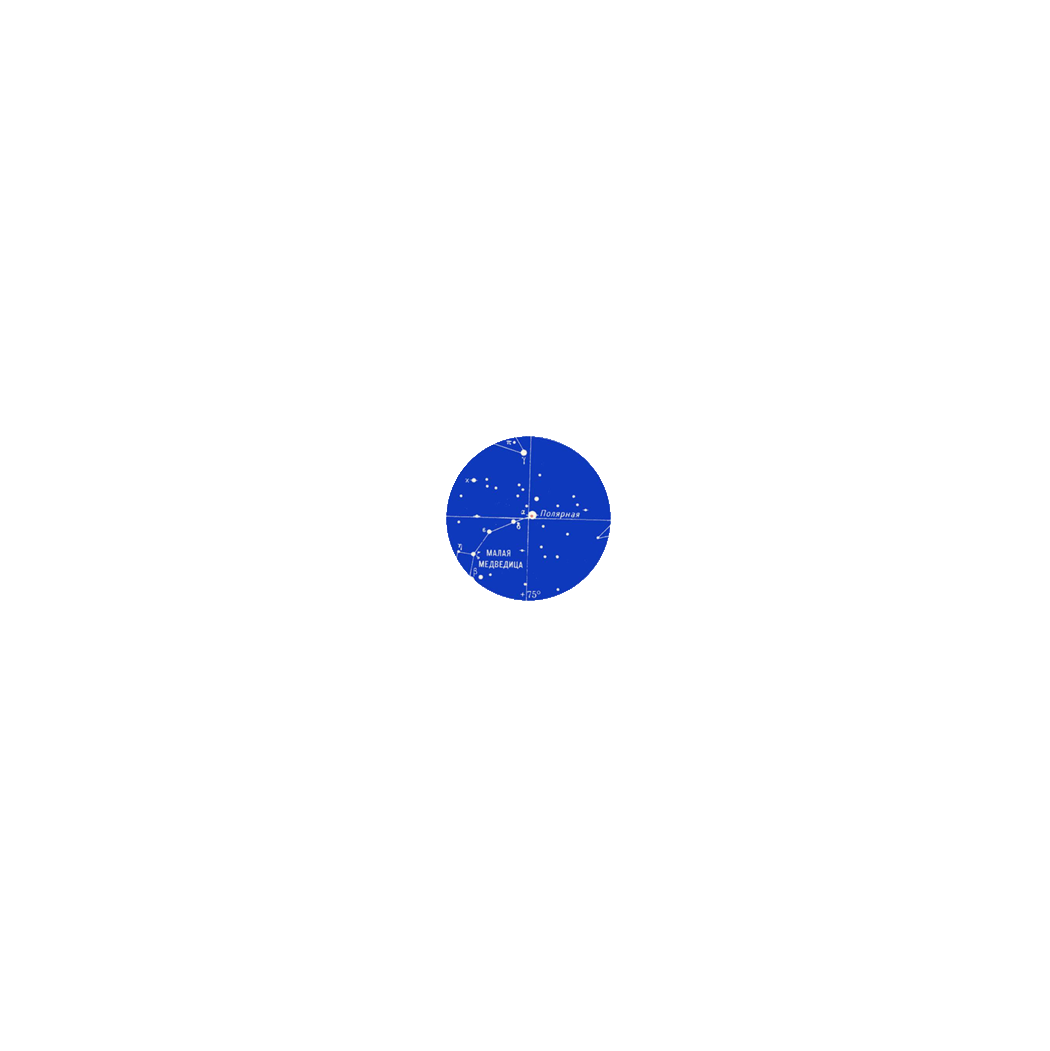
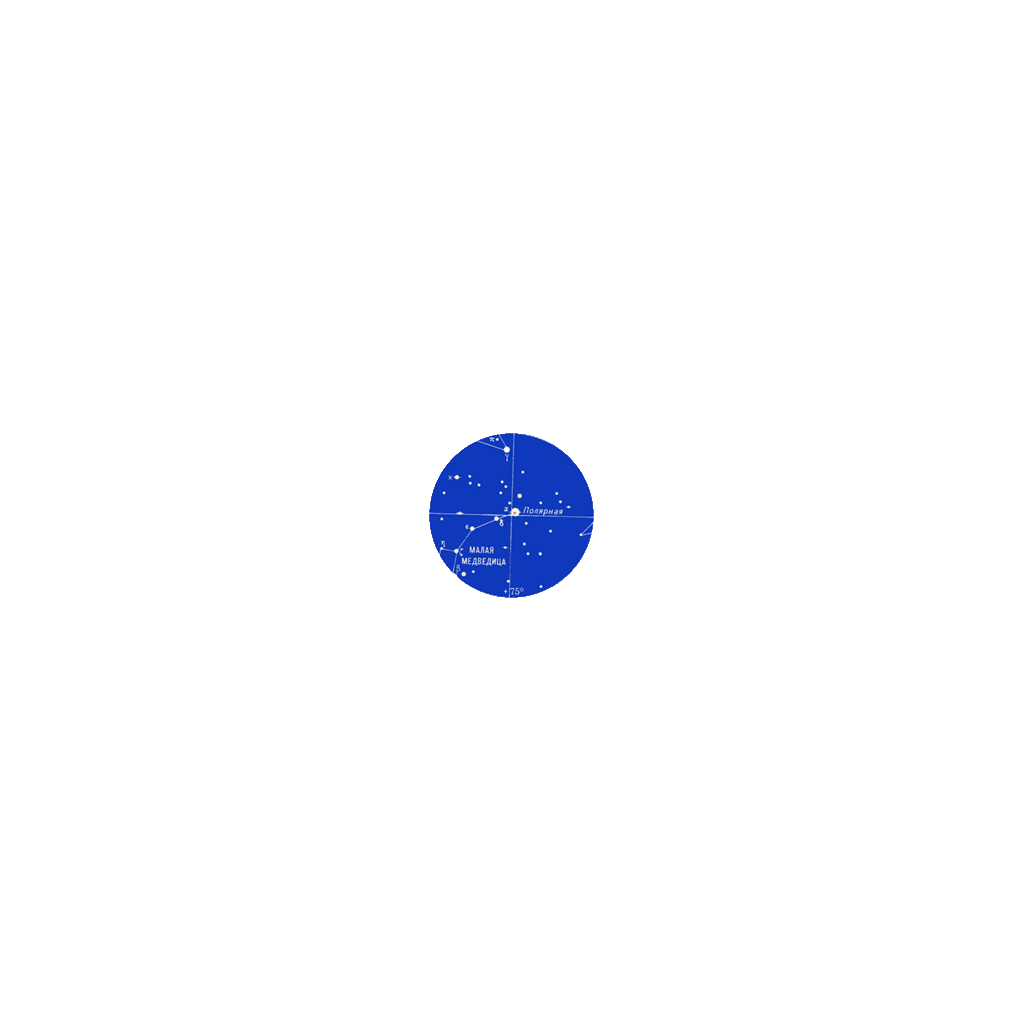
add rotation

Changed region(s): [[0.4059, 0.4023, 0.5932, 0.588]]

diff --git a/index.html b/index.html
@@ -6,13 +6,107 @@
   <meta name="viewport" content="width=device-width, initial-scale=1.0">
   <link rel="stylesheet" type="text/css" href="CSS/style.css">
   <title>for12</title>
+  <script>
+    function OnFirstRingClick()
+    {
+      const ring1 = document.getElementById('ring1');
+      const ring4 = document.getElementById('ring4');
+
+      ring1.style.webkitTransform = "translate(-50%, -50%) rotate("+(getDegreeElementById('ring1') - 30)+"deg)";
+      ring4.style.webkitTransform = "translate(-50%, -50%) rotate("+(getDegreeElementById('ring4') - 30)+"deg)";
+      CheckWin();
+    }
+    function OnSecondRingClick()
+    {
+      const ring2 = document.getElementById('ring2');
+      const ring3 = document.getElementById('ring3');
+
+      ring2.style.webkitTransform = "translate(-50%, -50%) rotate("+(getDegreeElementById('ring2') - 30)+"deg)";
+      ring3.style.webkitTransform = "translate(-50%, -50%) rotate("+(getDegreeElementById('ring3') + 30)+"deg)";
+      CheckWin();
+    }
+    function OnThirdRingClick()
+    {
+      const ring3 = document.getElementById('ring3');
+      const ring4 = document.getElementById('ring4');
+
+      ring3.style.webkitTransform = "translate(-50%, -50%) rotate("+(getDegreeElementById('ring3') - 30)+"deg)";
+      ring4.style.webkitTransform = "translate(-50%, -50%) rotate("+(getDegreeElementById('ring4') + 30)+"deg)";
+      CheckWin();
+    }
+    function OnFourthRingClick()
+    {
+      const ring4 = document.getElementById('ring4');
+      const ring1 = document.getElementById('ring1');
+
+      ring4.style.webkitTransform = "translate(-50%, -50%) rotate("+(getDegreeElementById('ring4') - 30)+"deg)";
+      ring1.style.webkitTransform = "translate(-50%, -50%) rotate("+(getDegreeElementById('ring1') - 30)+"deg)";
+      CheckWin();
+    }
+
+    function CheckWin()
+    {
+      if (getDegreeElementById('ring1') == 0
+        && getDegreeElementById('ring2') == 0
+        && getDegreeElementById('ring3') == 0
+        && getDegreeElementById('ring4') == 0
+        )
+      {
+        setTimeout(() => win(), 1000);
+      }
+      
+    }
+
+    function win()
+    {
+      document.body.innerHTML = '<h1>Наверху можно найти много интересного</h1>';
+    }
+
+    // функция для определения угла наклона элемента 
+    function getDegreeElementById(id_element){
+        var element = document.getElementById(id_element);
+        var style = window.getComputedStyle(element, null);
+        // получаем значение стилей
+        var valueStyle = style.getPropertyValue("-webkit-transform") ||
+            style.getPropertyValue("-moz-transform") ||
+            style.getPropertyValue("-ms-transform") ||
+            style.getPropertyValue("-o-transform") ||
+            style.getPropertyValue("transform");
+        // если стилей нет, то угол 0 градусов
+        if(valueStyle == 'none') return 0;
+        // разбираем полученное значение
+        console.log(valueStyle);
+        var values = valueStyle.split('(')[1];
+        values = values.split(')')[0];
+        values = values.split(',');
+        // получаем синус и косинус
+        var cos = values[0];
+        var sin = values[1];
+        // вычисляем угол
+        var degree = Math.round(Math.asin(sin) * (180/Math.PI));
+        if(cos<0){
+            addDegree = 90 - Math.round(Math.asin(sin) * (180/Math.PI));
+            degree = 90 + addDegree;
+        }
+        if(degree < 0){
+            degree = 360 + degree;
+        }
+        return degree;
+    }
+  </script>
 </head>
 <body>
   <div class="puzzle">
-    <img src="Source/1.png" alt="">
-    <img src="Source/2.png" alt="">
-    <img src="Source/3.png" alt="">
-    <img src="Source/4.png" alt="">
+    <img src="Source/1.png" id="ring1" alt="">
+    <img src="Source/2.png" id="ring2" alt="">
+    <img src="Source/3.png" id="ring3" alt="">
+    <img src="Source/4.png" id="ring4" alt="" usemap="#rings">
   </div>
+  <map name="rings">
+    <area onclick="OnFirstRingClick()" shape="circle" coords="300,300, 50">
+    <area onclick="OnSecondRingClick()" shape="circle" coords="300,300, 150">
+    <area onclick="OnThirdRingClick()" shape="circle" coords="300,300, 250">
+    <area onclick="OnFourthRingClick()" shape="circle" coords="300,300, 300">
+  </map>
 </body>
 </html>

diff --git a/CSS/style.css b/CSS/style.css
@@ -1,13 +1,39 @@
 .puzzle
 {
-  margin-left: auto;
-  margin-right: auto;
-  width: fit-content;
+  margin: 0;
+  position: absolute;
+  top: 50%;
+  left: 50%;
+  margin-right: -50%;
+  transform: translate(-50%, -50%)
 }
 
 .puzzle img
 {
-  width: 50%;
+  width:600px;
+  height:600px;
+  margin-left: auto;
+  margin-right: auto;
   position: absolute;
-  left: 25%;
+  margin-right: -50%;
+  transform: translate(-50%, -50%)
+}
+#ring1
+{
+  transform: translate(-50%, -50%) rotate(90deg);
+}
+
+#ring2
+{
+  transform: translate(-50%, -50%) rotate(60deg);
+}
+
+#ring3
+{
+  transform: translate(-50%, -50%) rotate(30deg);
+}
+
+#ring4
+{
+  transform: translate(-50%, -50%);
 }
